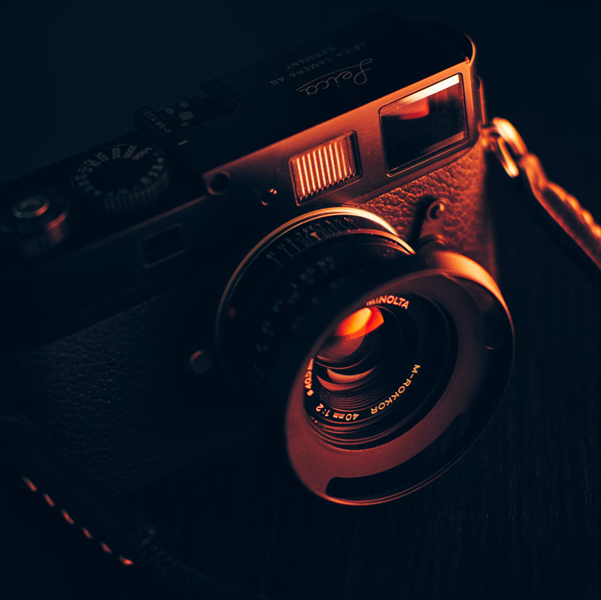
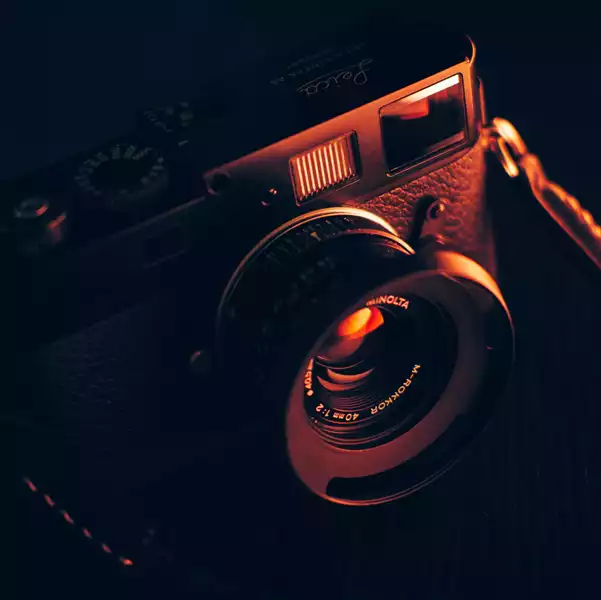
Images galerie compressées

diff --git a/index.html b/index.html
@@ -120,15 +120,15 @@
 		<h2 class="title">Portfolio</h2>
 		<div class="container py-3">
 			<div class="gallery" style="display: none">
-				<img data-gallery-tag="Concert" class="gallery-item" src="./assets/images/gallery/concerts/aaron-paul-wnX-fXzB6Cw-unsplash.webp" loading="lazy" alt="Lumières rouges concert"/>
-				<img data-gallery-tag="Entreprises" class="gallery-item" src="./assets/images/gallery/entreprise/ali-morshedlou-WMD64tMfc4k-unsplash.webp" loading="lazy" alt="Portrait d'un homme en costume "/>
-				<img data-gallery-tag="Entreprises" class="gallery-item" src="./assets/images/gallery/entreprise/jason-goodman-tHO1_OuKbg0-unsplash.webp" loading="lazy" alt="Portrait d'une femme qui sourit franchement"/>
-				<img data-gallery-tag="Mariages" class="gallery-item" src="./assets/images/gallery/mariage/hannah-busing-RvF2R_qMpRk-unsplash.webp" loading="lazy" alt="Premier et second plan de mains d'un couple"/>
-				<img data-gallery-tag="Portrait" class="gallery-item" src="./assets/images/gallery/portraits/ade-tunji-rVkhWWZFAtQ-unsplash.webp" loading="lazy" alt="Portrait d'un homme les yeux fermés"/>
-				<img data-gallery-tag="Mariages" class="gallery-item" src="./assets/images/gallery/mariage/jakob-owens-SiniLJkXhMc-unsplash.webp" loading="lazy" alt="Couple qui marche et rit ensemble lors de leur mariage"/>
-				<img data-gallery-tag="Portrait" class="gallery-item" src="./assets/images/gallery/portraits/nino-van-prattenburg-443cl1uR_8-unsplash.webp" loading="lazy" alt="Portrait d'une jeune femme en extérieur"/>
-				<img data-gallery-tag="Concert" class="gallery-item" src="./assets/images/gallery/concerts/austin-neill-hgO1wFPXl3I-unsplash.webp" loading="lazy" alt="Chanteur lors d'un concert"/>
-				<img data-gallery-tag="Entreprises" class="gallery-item" src="./assets/images/gallery/entreprise/mateus-campos-felipe-Fsgzm8N0hIY-unsplash.webp" loading="lazy" alt="Portrait d'une femme qui rit devant son ordi"/>
+				<img data-gallery-tag="Concert" class="gallery-item" src="./assets/images/gallery/concerts/aaron-paul-min.webp" loading="lazy" alt="Lumières rouges concert"/>
+				<img data-gallery-tag="Entreprises" class="gallery-item" src="./assets/images/gallery/entreprise/ali-morshedlou-min.webp" loading="lazy" alt="Portrait d'un homme en costume "/>
+				<img data-gallery-tag="Entreprises" class="gallery-item" src="./assets/images/gallery/entreprise/jason-goodman-min.webp" loading="lazy" alt="Portrait d'une femme qui sourit franchement"/>
+				<img data-gallery-tag="Mariages" class="gallery-item" src="./assets/images/gallery/mariage/hannah-busing-min.webp" loading="lazy" alt="Premier et second plan de mains d'un couple"/>
+				<img data-gallery-tag="Portrait" class="gallery-item" src="./assets/images/gallery/portraits/ade-tunji-min.webp" loading="lazy" alt="Portrait d'un homme les yeux fermés"/>
+				<img data-gallery-tag="Mariages" class="gallery-item" src="./assets/images/gallery/mariage/jakob-owens-min.webp" loading="lazy" alt="Couple qui marche et rit ensemble lors de leur mariage"/>
+				<img data-gallery-tag="Portrait" class="gallery-item" src="./assets/images/gallery/portraits/nino-van-min.webp" loading="lazy" alt="Portrait d'une jeune femme en extérieur"/>
+				<img data-gallery-tag="Concert" class="gallery-item" src="./assets/images/gallery/concerts/austin-neill-min.webp" loading="lazy" alt="Chanteur lors d'un concert"/>
+				<img data-gallery-tag="Entreprises" class="gallery-item" src="./assets/images/gallery/entreprise/mateus-campos-min.webp" loading="lazy" alt="Portrait d'une femme qui rit devant son ordi"/>
 			</div>
 		</div>
 		<div class="quote">
